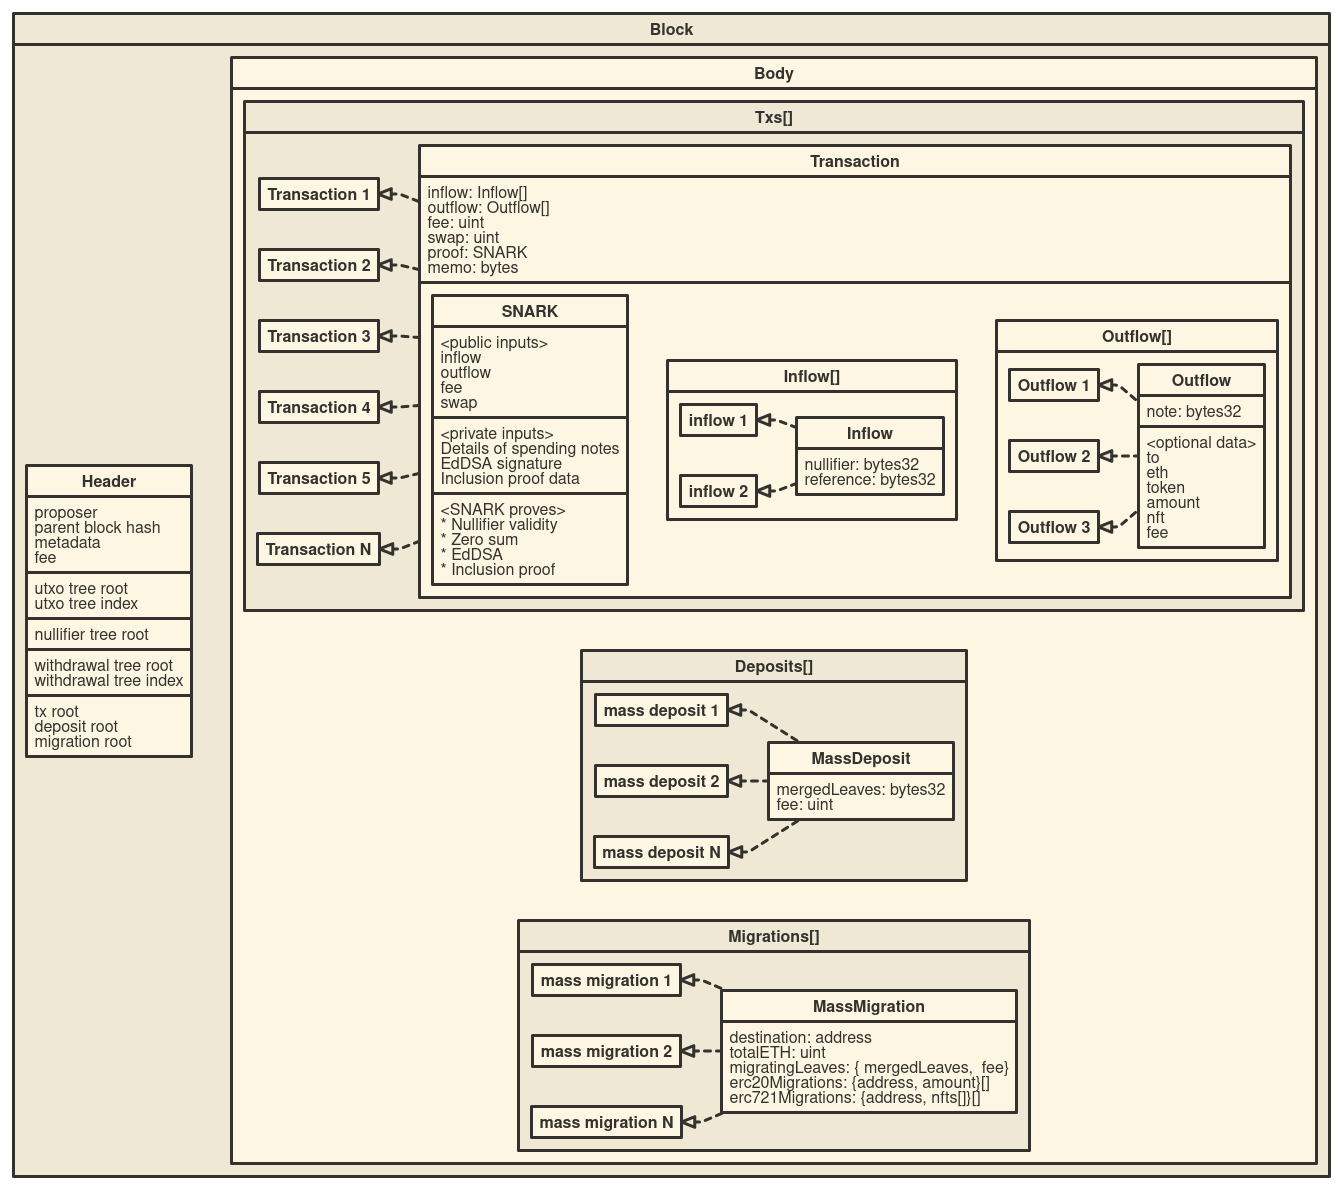
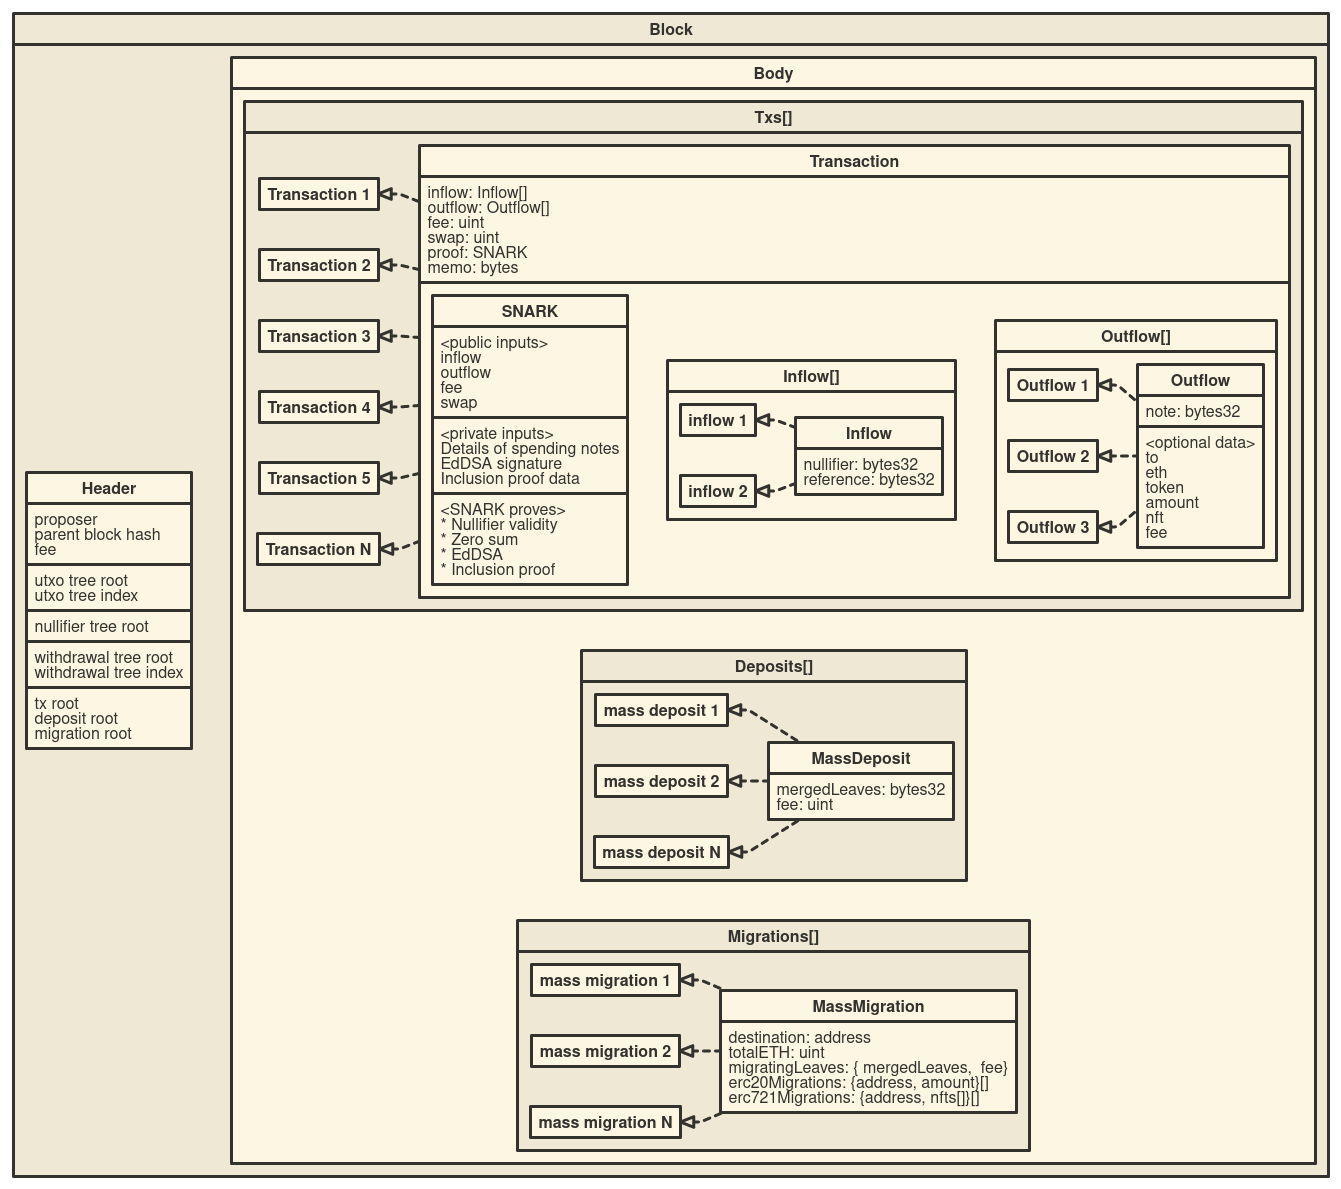
remove metadata field from the block data information

diff --git a/how-it-works/block.md b/how-it-works/block.md
@@ -8,17 +8,16 @@ The zkopru block includes a header and a body.
 
 ![Block details](../.gitbook/assets/block.png)
 
-[Edit diagram here](http://www.nomnoml.com/#view/%23.right%3A%20direction%3Dright%20bold%0A%5BBlock%20%7C%0A%0A%5BHeader%20%7C%0Aproposer%0Aparent%20block%20hash%0Ametadata%0Afee%20%7C%0Autxo%20tree%20root%0Autxo%20tree%20index%0A%20%7C%0Anullifier%20tree%20root%20%7C%0Awithdrawal%20tree%20root%0Awithdrawal%20tree%20index%0A%7C%0Atx%20root%0Adeposit%20root%0Amigration%20root%0A%5D%0A%5B%3Cright%3EBody%20%7C%0A%5B%3Cright%3E%20Txs%5C%5B%5C%5D%20%7C%0A%5BTransaction%20%7C%0Ainflow%3A%20Inflow%5C%5B%5C%5D%0Aoutflow%3A%20Outflow%5C%5B%5C%5D%0Afee%3A%20uint%0Aswap%3A%20uint%0Aproof%3A%20SNARK%0Amemo%3A%20bytes%20%7C%0A%5B%3Cright%3E%20Inflow%5C%5B%5C%5D%7C%20%0A%5Binflow%201%5D%20%3C%3A--%20%5BInflow%5D%0A%5Binflow%202%5D%20%3C%3A--%20%5BInflow%5D%0A%5BInflow%20%7C%20nullifier%3A%20bytes32%3B%20reference%3A%20bytes32%5D%0A%5D%0A%5B%3Cright%3E%20Outflow%5C%5B%5C%5D%20%7C%0A%5BOutflow%201%5D%20%3C%3A--%20%5BOutflow%5D%0A%5BOutflow%202%5D%20%3C%3A--%20%5BOutflow%5D%0A%5BOutflow%203%5D%20%3C%3A--%20%5BOutflow%5D%0A%5BOutflow%202%5D%20%3C%3A--%20%5BOutflow%5D%0A%5BOutflow%20%7C%0Anote%3A%20bytes32%20%7C%0A%3Coptional%20data%3E%0Ato%0Aeth%0Atoken%0Aamount%0Anft%0Afee%0A%5D%0A%5D%0A%5BSNARK%20%7C%0A%3Cpublic%20inputs%3E%0Ainflow%0Aoutflow%0Afee%0Aswap%20%7C%0A%3Cprivate%20inputs%3E%0ADetails%20of%20spending%20notes%0AEdDSA%20signature%0AInclusion%20proof%20data%20%7C%0A%3CSNARK%20proves%3E%0A*%20Nullifier%20validity%0A*%20Zero%20sum%0A*%20EdDSA%0A*%20Inclusion%20proof%0A%5D%0A%0A%5D%0A%5BTransaction%201%5D%20%3C%3A--%20%5BTransaction%5D%0A%5BTransaction%202%5D%20%3C%3A--%20%5BTransaction%5D%0A%5BTransaction%203%5D%20%3C%3A--%20%5BTransaction%5D%0A%5BTransaction%204%5D%20%3C%3A--%20%5BTransaction%5D%0A%5BTransaction%205%5D%20%3C%3A--%20%5BTransaction%5D%0A%5BTransaction%20N%5D%20%3C%3A--%20%5BTransaction%5D%0A%5D%0A%5B%3Cright%3E%20Deposits%5C%5B%5C%5D%7C%0A%5BMassDeposit%20%7C%0AmergedLeaves%3A%20bytes32%0Afee%3A%20uint%0A%5D%0A%5Bmass%20deposit%201%5D%20%3C%3A--%20%5BMassDeposit%5D%0A%5Bmass%20deposit%202%5D%20%3C%3A--%20%5BMassDeposit%5D%0A%5Bmass%20deposit%20N%5D%20%3C%3A--%20%5BMassDeposit%5D%0A%5D%0A%5B%3Cright%3E%20Migrations%5C%5B%5C%5D%7C%0A%5Bmass%20migration%201%5D%20%3C%3A--%20%5BMassMigration%5D%0A%5Bmass%20migration%202%5D%20%3C%3A--%20%5BMassMigration%5D%0A%5Bmass%20migration%20N%5D%20%3C%3A--%20%5BMassMigration%5D%0A%5BMassMigration%20%7C%0Adestination%3A%20address%0AtotalETH%3A%20uint%0AmigratingLeaves%3A%20%7B%20mergedLeaves%2C%20%20fee%7D%0Aerc20Migrations%3A%20%7Baddress%2C%20amount%7D%5C%5B%5C%5D%0Aerc721Migrations%3A%20%7Baddress%2C%20nfts%5C%5B%5C%5D%7D%5C%5B%5C%5D%0A%5D%0A%5D%0A%5D%0A%5D%0A)
+[Edit diagram here](http://www.nomnoml.com/#view/%23.right%3A%20direction%3Dright%20bold%0A%5BBlock%20%7C%0A%0A%5BHeader%20%7C%0Aproposer%0Aparent%20block%20hash%0Afee%20%7C%0Autxo%20tree%20root%0Autxo%20tree%20index%0A%20%7C%0Anullifier%20tree%20root%20%7C%0Awithdrawal%20tree%20root%0Awithdrawal%20tree%20index%0A%7C%0Atx%20root%0Adeposit%20root%0Amigration%20root%0A%5D%0A%5B%3Cright%3EBody%20%7C%0A%5B%3Cright%3E%20Txs%5C%5B%5C%5D%20%7C%0A%5BTransaction%20%7C%0Ainflow%3A%20Inflow%5C%5B%5C%5D%0Aoutflow%3A%20Outflow%5C%5B%5C%5D%0Afee%3A%20uint%0Aswap%3A%20uint%0Aproof%3A%20SNARK%0Amemo%3A%20bytes%20%7C%0A%5B%3Cright%3E%20Inflow%5C%5B%5C%5D%7C%20%0A%5Binflow%201%5D%20%3C%3A--%20%5BInflow%5D%0A%5Binflow%202%5D%20%3C%3A--%20%5BInflow%5D%0A%5BInflow%20%7C%20nullifier%3A%20bytes32%3B%20reference%3A%20bytes32%5D%0A%5D%0A%5B%3Cright%3E%20Outflow%5C%5B%5C%5D%20%7C%0A%5BOutflow%201%5D%20%3C%3A--%20%5BOutflow%5D%0A%5BOutflow%202%5D%20%3C%3A--%20%5BOutflow%5D%0A%5BOutflow%203%5D%20%3C%3A--%20%5BOutflow%5D%0A%5BOutflow%202%5D%20%3C%3A--%20%5BOutflow%5D%0A%5BOutflow%20%7C%0Anote%3A%20bytes32%20%7C%0A%3Coptional%20data%3E%0Ato%0Aeth%0Atoken%0Aamount%0Anft%0Afee%0A%5D%0A%5D%0A%5BSNARK%20%7C%0A%3Cpublic%20inputs%3E%0Ainflow%0Aoutflow%0Afee%0Aswap%20%7C%0A%3Cprivate%20inputs%3E%0ADetails%20of%20spending%20notes%0AEdDSA%20signature%0AInclusion%20proof%20data%20%7C%0A%3CSNARK%20proves%3E%0A*%20Nullifier%20validity%0A*%20Zero%20sum%0A*%20EdDSA%0A*%20Inclusion%20proof%0A%5D%0A%0A%5D%0A%5BTransaction%201%5D%20%3C%3A--%20%5BTransaction%5D%0A%5BTransaction%202%5D%20%3C%3A--%20%5BTransaction%5D%0A%5BTransaction%203%5D%20%3C%3A--%20%5BTransaction%5D%0A%5BTransaction%204%5D%20%3C%3A--%20%5BTransaction%5D%0A%5BTransaction%205%5D%20%3C%3A--%20%5BTransaction%5D%0A%5BTransaction%20N%5D%20%3C%3A--%20%5BTransaction%5D%0A%5D%0A%5B%3Cright%3E%20Deposits%5C%5B%5C%5D%7C%0A%5BMassDeposit%20%7C%0AmergedLeaves%3A%20bytes32%0Afee%3A%20uint%0A%5D%0A%5Bmass%20deposit%201%5D%20%3C%3A--%20%5BMassDeposit%5D%0A%5Bmass%20deposit%202%5D%20%3C%3A--%20%5BMassDeposit%5D%0A%5Bmass%20deposit%20N%5D%20%3C%3A--%20%5BMassDeposit%5D%0A%5D%0A%5B%3Cright%3E%20Migrations%5C%5B%5C%5D%7C%0A%5Bmass%20migration%201%5D%20%3C%3A--%20%5BMassMigration%5D%0A%5Bmass%20migration%202%5D%20%3C%3A--%20%5BMassMigration%5D%0A%5Bmass%20migration%20N%5D%20%3C%3A--%20%5BMassMigration%5D%0A%5BMassMigration%20%7C%0Adestination%3A%20address%0AtotalETH%3A%20uint%0AmigratingLeaves%3A%20%7B%20mergedLeaves%2C%20%20fee%7D%0Aerc20Migrations%3A%20%7Baddress%2C%20amount%7D%5C%5B%5C%5D%0Aerc721Migrations%3A%20%7Baddress%2C%20nfts%5C%5B%5C%5D%7D%5C%5B%5C%5D%0A%5D%0A%5D%0A%5D%0A%5D%0A)
 
 ### Header
 
-The first 372 bytes of the data should be the block header. The block header contains the following data:
+The first 340 bytes of the data should be the block header. The block header contains the following data:
 
 | Property | type |
 | :--- | :--- |
 | Proposer's address | address |
 | Parent block hash | bytes32 |
-| Metadata | uint256 |
 | Fee | uint256 |
 | Latest UTXO tree's root | uint256 |
 | Latest UTXO tree's leaf index | uint256 |
